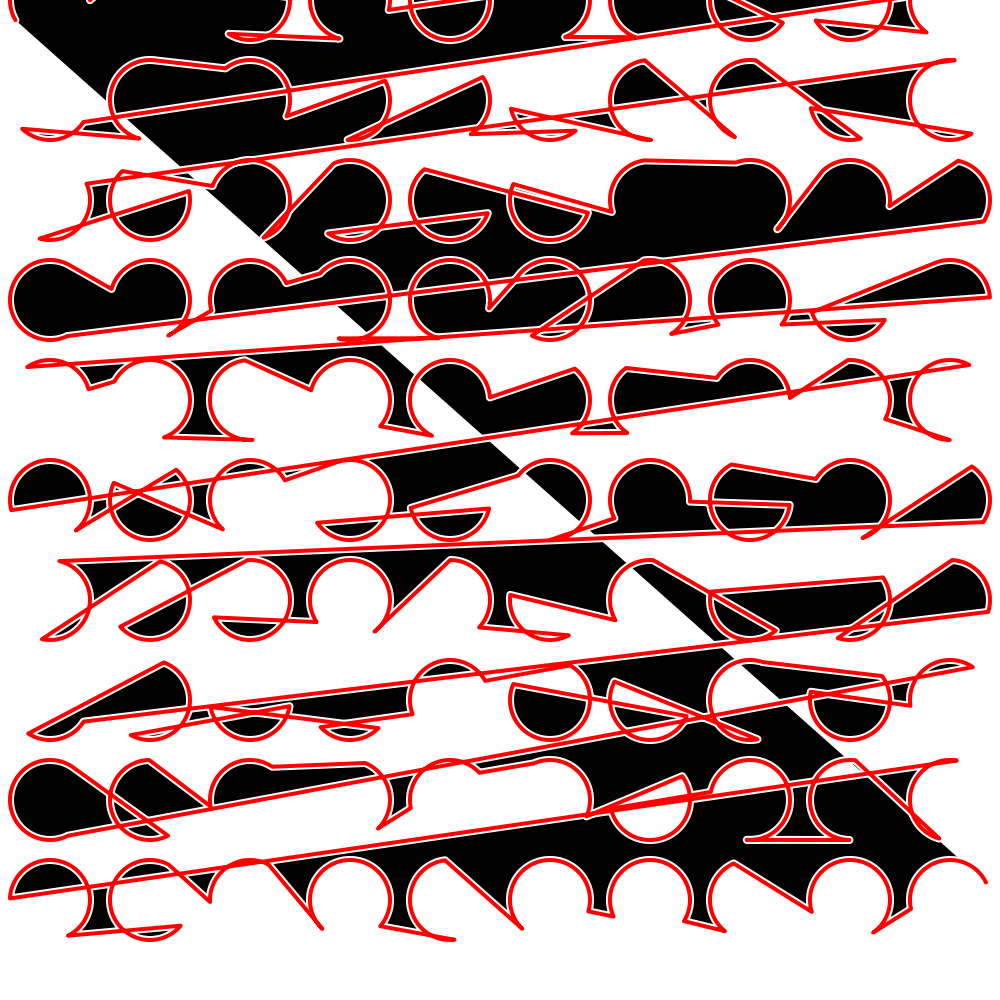
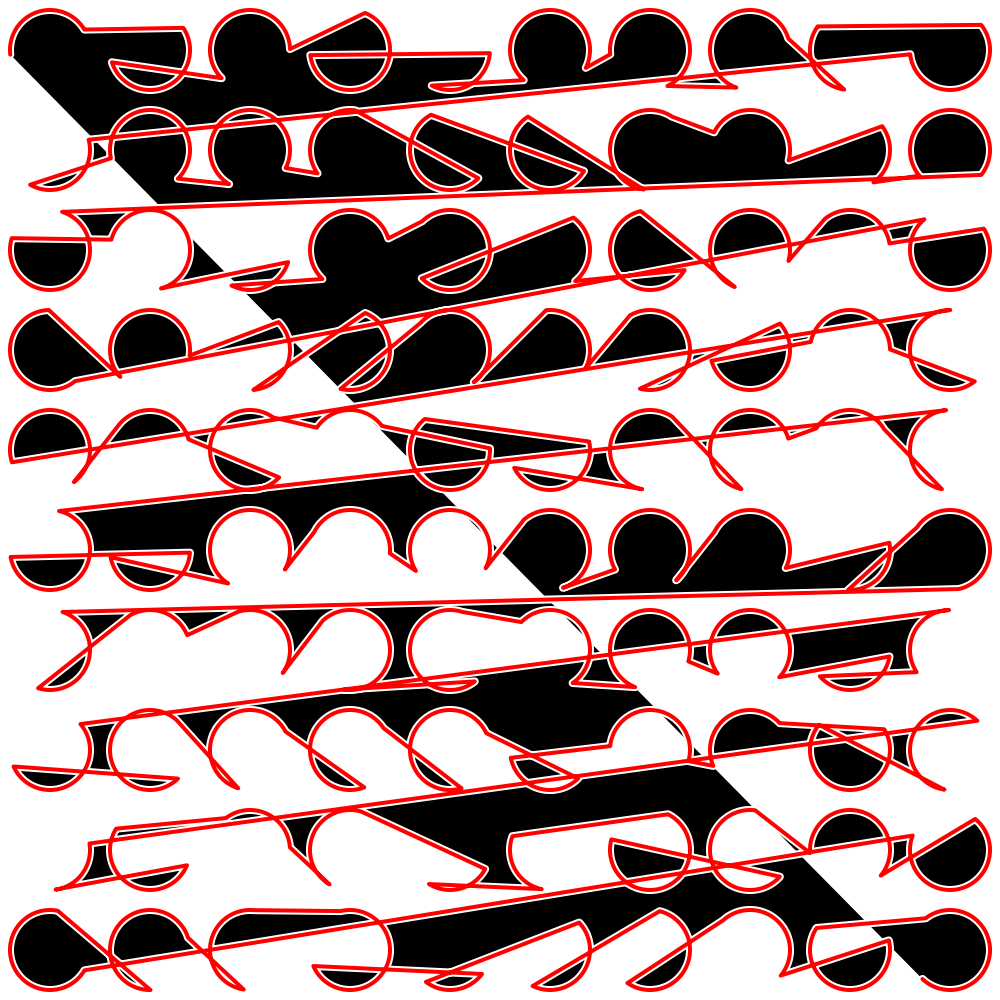
[update-readme] fix openfill

diff --git a/cmd/openfill.go b/cmd/openfill.go
@@ -3,20 +3,28 @@ package main
 import . "github.com/rprtr258/gena"
 
 func openfill() {
-	dc := NewContext(complex(1000, 1000))
-	for _, f := range RangeV2_2(10, 10) {
-		a1 := PI * Random() * 2
-		a2 := PI * (Random() + 0.5)
-		dc.DrawArc(f*100+50, 40, a1, a1+a2)
-		// dc.ClosePath()
+	const N = 10
+	const SZ = 1000
+	dc := NewContext(Diag(SZ))
+	dc.TransformAdd(Translate(Diag(SZ / N / 2)))
+	for _, y := range RangeF64(0, SZ, N) {
+		for _, x := range RangeF64(0, SZ, N) {
+			f := complex(x, y)
+			a1 := PI * Random() * 2
+			a2 := PI * (Random() + 0.5)
+			dc.DrawArc(f, 40, a1, a1+a2)
+		}
 	}
-	dc.SetColor(ColorRGB(0, 0, 0))
+	dc.SetColor(Black)
 	dc.FillPreserve()
-	dc.SetColor(ColorRGB(1, 1, 1))
+
+	dc.SetColor(White)
 	dc.SetLineWidth(8)
 	dc.StrokePreserve()
-	dc.SetColor(ColorRGB(1, 0, 0))
+
+	dc.SetColor(Red)
 	dc.SetLineWidth(4)
 	dc.StrokePreserve()
+
 	SavePNG("openfill.png", dc.Image())
 }
